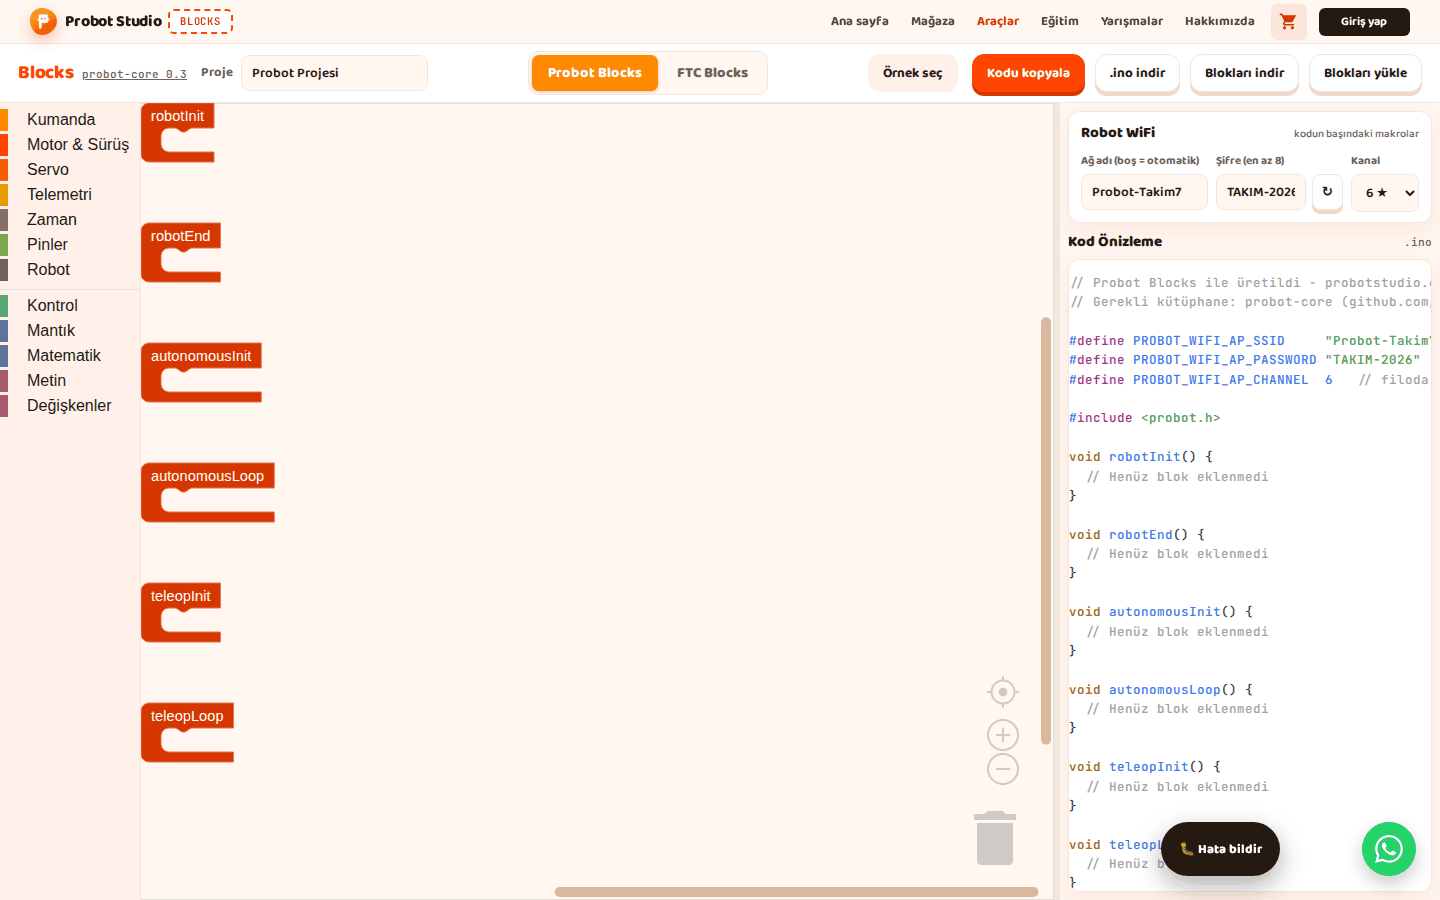
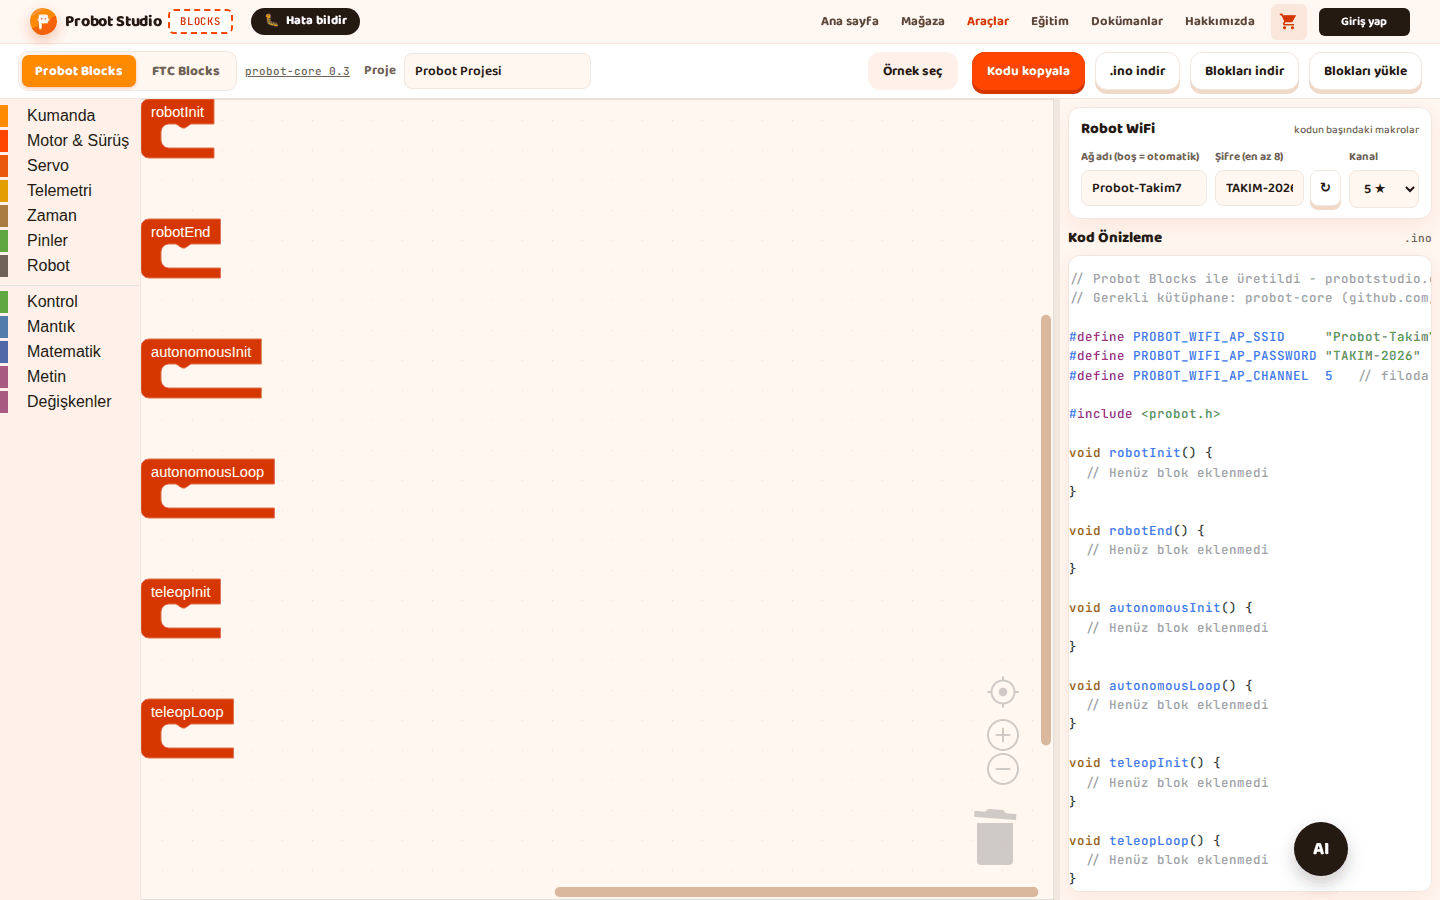
docs(tools/blocks): recommend WiFi channels 1, 5, 9, 13 like Probot Core
Probot Blocks now stars channels 1, 5, 9 and 13 and writes the matching
comment into the generated code, as the Probot Core channel plan says.
The guide, the interface table and decks 04 and 05 follow, with channel 5
as the worked example and a link to the core channel plan; the WiFi
screenshot is recaptured with 5 selected.

diff --git a/tools/blocks/presentation/04-probot-wifi-ve-kayit/ders.md b/tools/blocks/presentation/04-probot-wifi-ve-kayit/ders.md
@@ -89,15 +89,15 @@ Toplam yaklaşık 3 dakika.
 
 ## Kanalı seçin
 
-- **Kanal** listesinde **1 ★**, **6 ★** ya da **11 ★**
-- Aynı odadaki robotlar bu üç kanala dağıtılır
+- **Kanal** listesinde **1 ★**, **5 ★**, **9 ★** ya da **13 ★**
+- Aynı odadaki her robota bu dört kanaldan farklı biri verilir
 - Driver Station **Logs** sayfasında kanal görünür
-- Bazı cihazlar 12 ve 13. kanalı görmez
+- Bazı cihazlar 12 ve 13. kanalı görmez, o zaman 1-11 seçilir
 
-![Robot WiFi bölümünde 6 yıldızlı kanal seçili](img/blocks-wifi-sonuc.png)
+![Robot WiFi bölümünde 5 yıldızlı kanal seçili](img/blocks-wifi-sonuc.png)
 
 ::: hoca
-**Söyle:** "Aynı odadaki robotlar birbirini bozmasın diye yıldızlı kanallardan birini seçiyoruz. 1, 6 ve 11 numaralı kanallar birbirini bozmuyor. Kod yüklendikten sonra Driver Station'ın Logs sayfasında robotun hangi kanalda yayın yaptığını görüyoruz."
+**Söyle:** "Aynı odadaki robotlar birbirini bozmasın diye yıldızlı kanallardan birini seçiyoruz. 1, 5, 9 ve 13 numaralı kanallar birbirini bozmuyor. Bazı tablet ve dizüstüler 13. kanalı görmüyor; o cihazın bağlanacağı robota 1 ile 11 arası bir kanal veriyoruz. Kod yüklendikten sonra Driver Station'ın Logs sayfasında robotun hangi kanalda yayın yaptığını görüyoruz."
 :::
 
 ## Ayarlar nerede saklanır
@@ -195,9 +195,9 @@ Toplam yaklaşık 3 dakika.
 
 ## Robotunuzun ağını ayarlayın {#blocks-sunum-04-odev tur=yazi}
 
-Probot Blocks'ta Ağ adı kutusuna takımınıza özel bir ad yazın, şifreyi elle yazın ve kanal olarak 1, 6 ya da 11 seçin. Kod Önizleme'nin başındaki üç WiFi satırını buraya yapıştırın.
+Probot Blocks'ta Ağ adı kutusuna takımınıza özel bir ad yazın, şifreyi elle yazın ve kanal olarak 1, 5, 9 ya da 13 seçin. Kod Önizleme'nin başındaki üç WiFi satırını buraya yapıştırın.
 
 ::: hoca
-Tamam. `PROBOT_WIFI_AP_SSID`, `PROBOT_WIFI_AP_PASSWORD` ve `PROBOT_WIFI_AP_CHANNEL` satırları var, kanal 1, 6 ya da 11.
+Tamam. `PROBOT_WIFI_AP_SSID`, `PROBOT_WIFI_AP_PASSWORD` ve `PROBOT_WIFI_AP_CHANNEL` satırları var, kanal 1, 5, 9 ya da 13.
 Tekrar. Ad satırı yerine yorum varsa ağ adı boş bırakılmış.
 :::

diff --git a/tools/blocks/arayuz.md b/tools/blocks/arayuz.md
@@ -153,7 +153,7 @@ devam eder. Bir bölümü koddan çıkarmak için içindeki blokları tek tek de
 | **Ağ adı (boş = otomatik)** | Ağ adı, en çok 24 karakter. Boşsa robot `Probot-XXXXXX` biçiminde kendi adını kullanır. | | [Robot WiFi ayarlarını yap](probot-wifi-ayarla.md) |
 | **Şifre (en az 8)** | Ağ şifresi, 8-24 karakter. Yalnız büyük harf, rakam ve `-` kabul eder; küçük harf büyüğe çevrilir. | | [Robot WiFi ayarlarını yap](probot-wifi-ayarla.md) |
 | **↻** (Yeni şifre üret) | `PB-XXX-XXX` biçiminde yeni şifre üretir. | | [Robot WiFi ayarlarını yap](probot-wifi-ayarla.md) |
-| **Kanal** | WiFi kanalı, 1-13. Yıldızlı kanallar (1, 6, 11) önerilir. | | [Robot WiFi ayarlarını yap](probot-wifi-ayarla.md) |
+| **Kanal** | WiFi kanalı, 1-13. Yıldızlı kanallar (1, 5, 9, 13) önerilir. | | [Robot WiFi ayarlarını yap](probot-wifi-ayarla.md) |
 | **Kod Önizleme** bölümü | Bloklardan üretilen `.ino` kodu. Her değişiklikte anında yenilenir. Bu alana yazılmaz. | | [Kodu kopyala ya da indir](probot-kodu-al.md) |
 
 ### Probot örnekleri penceresi
